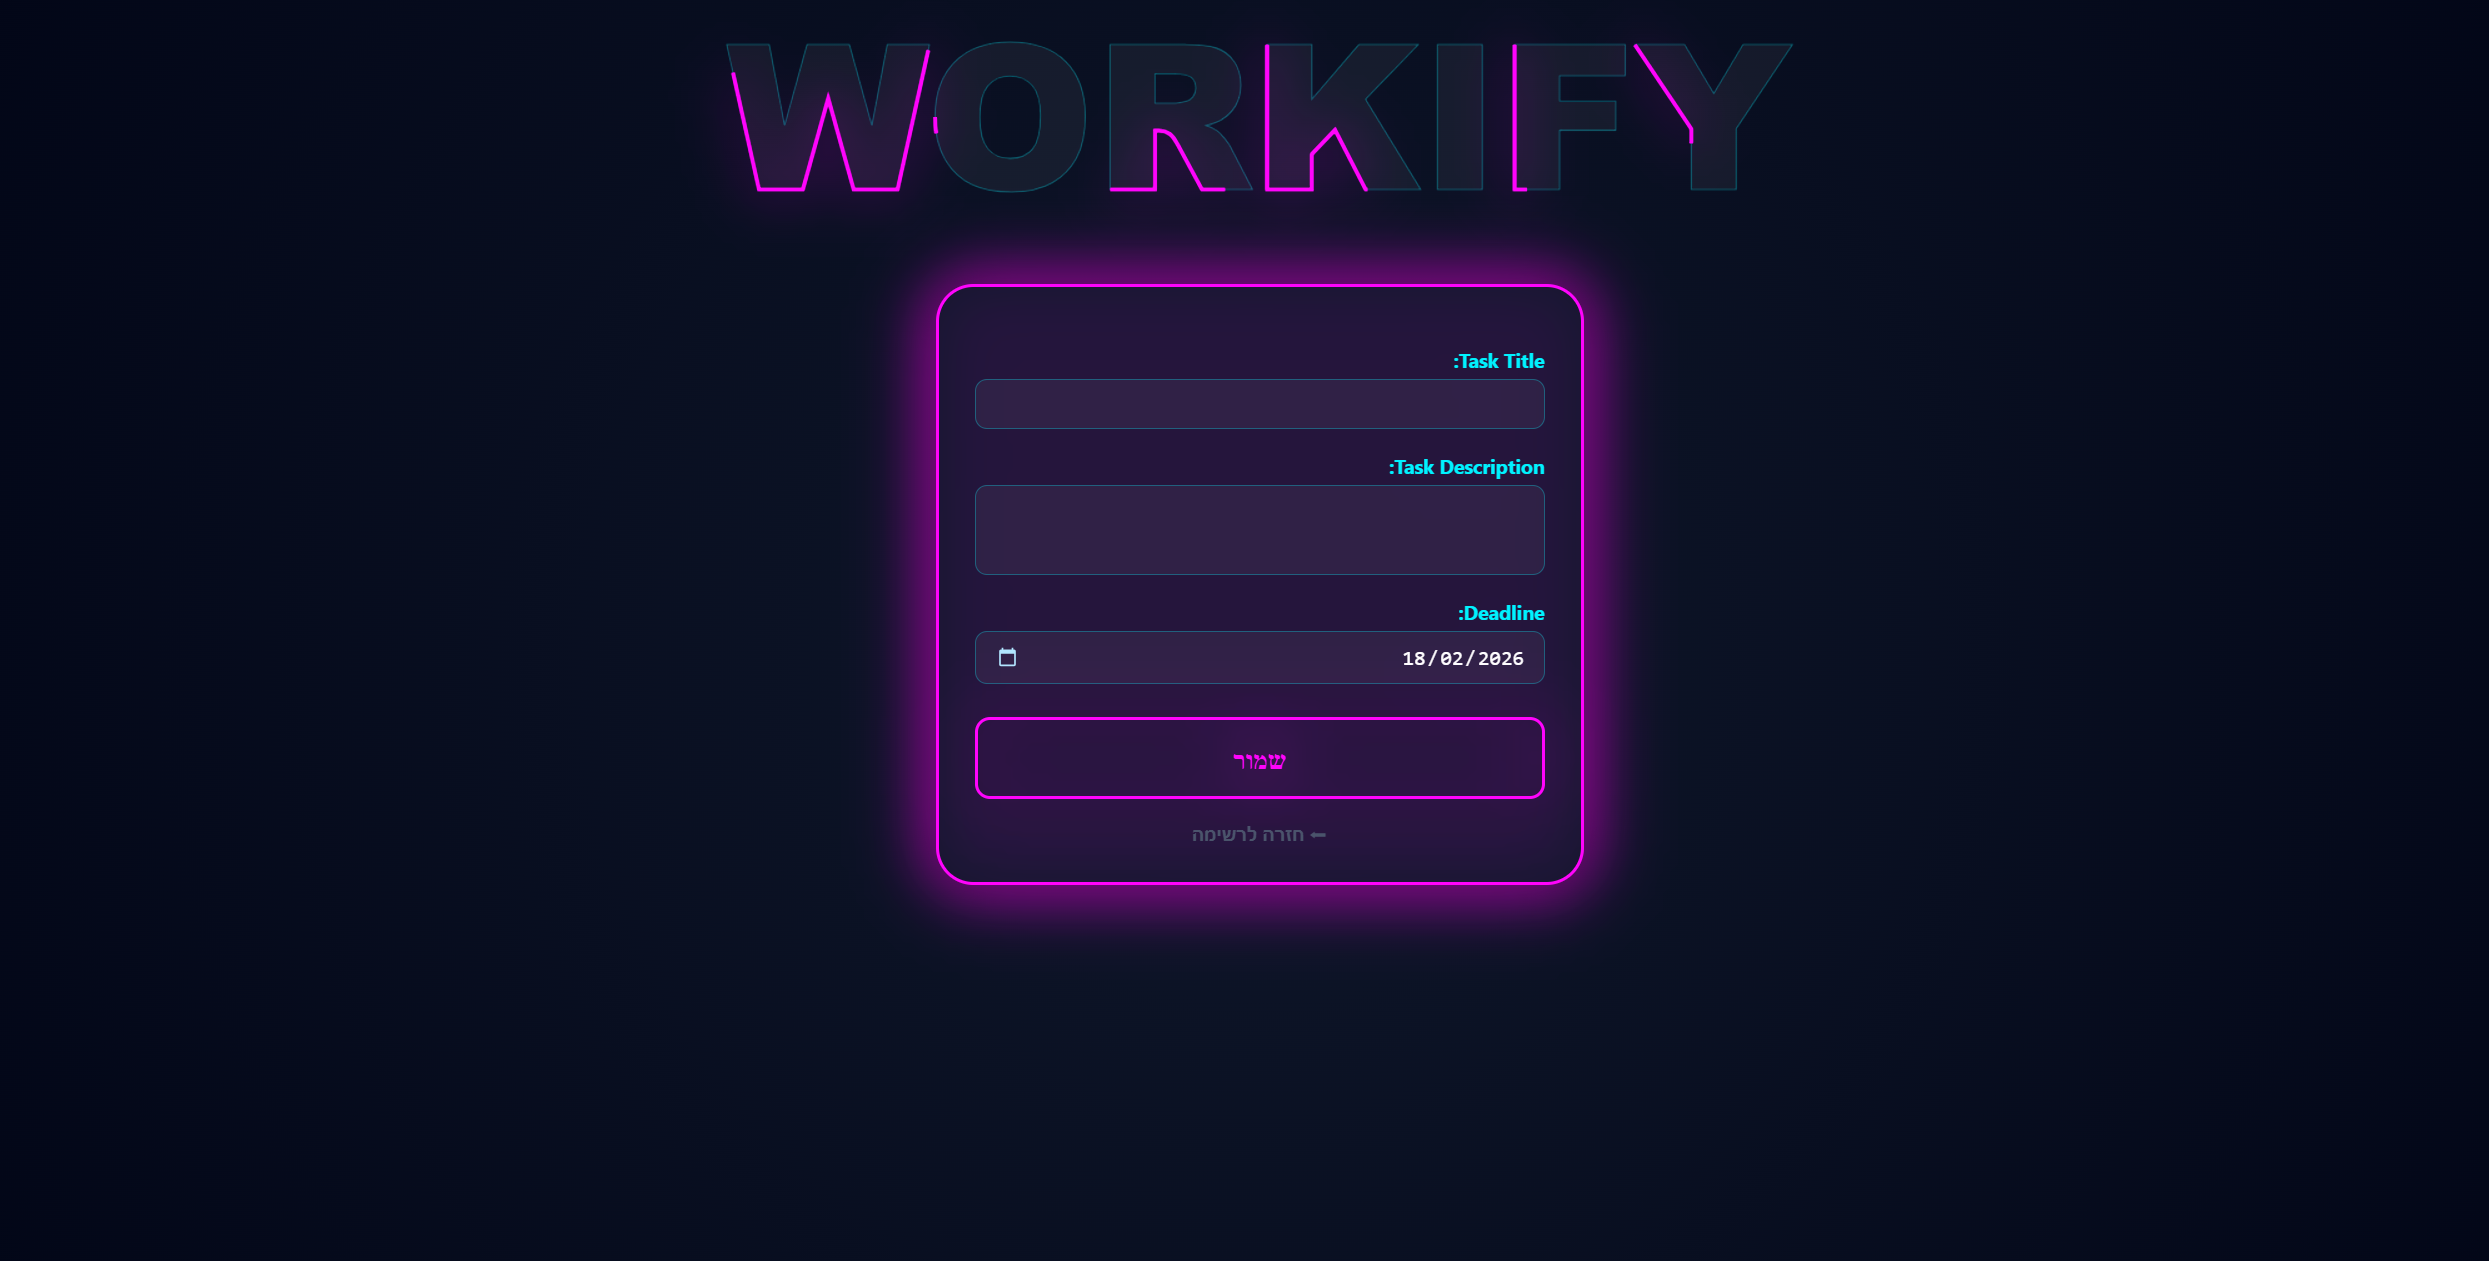
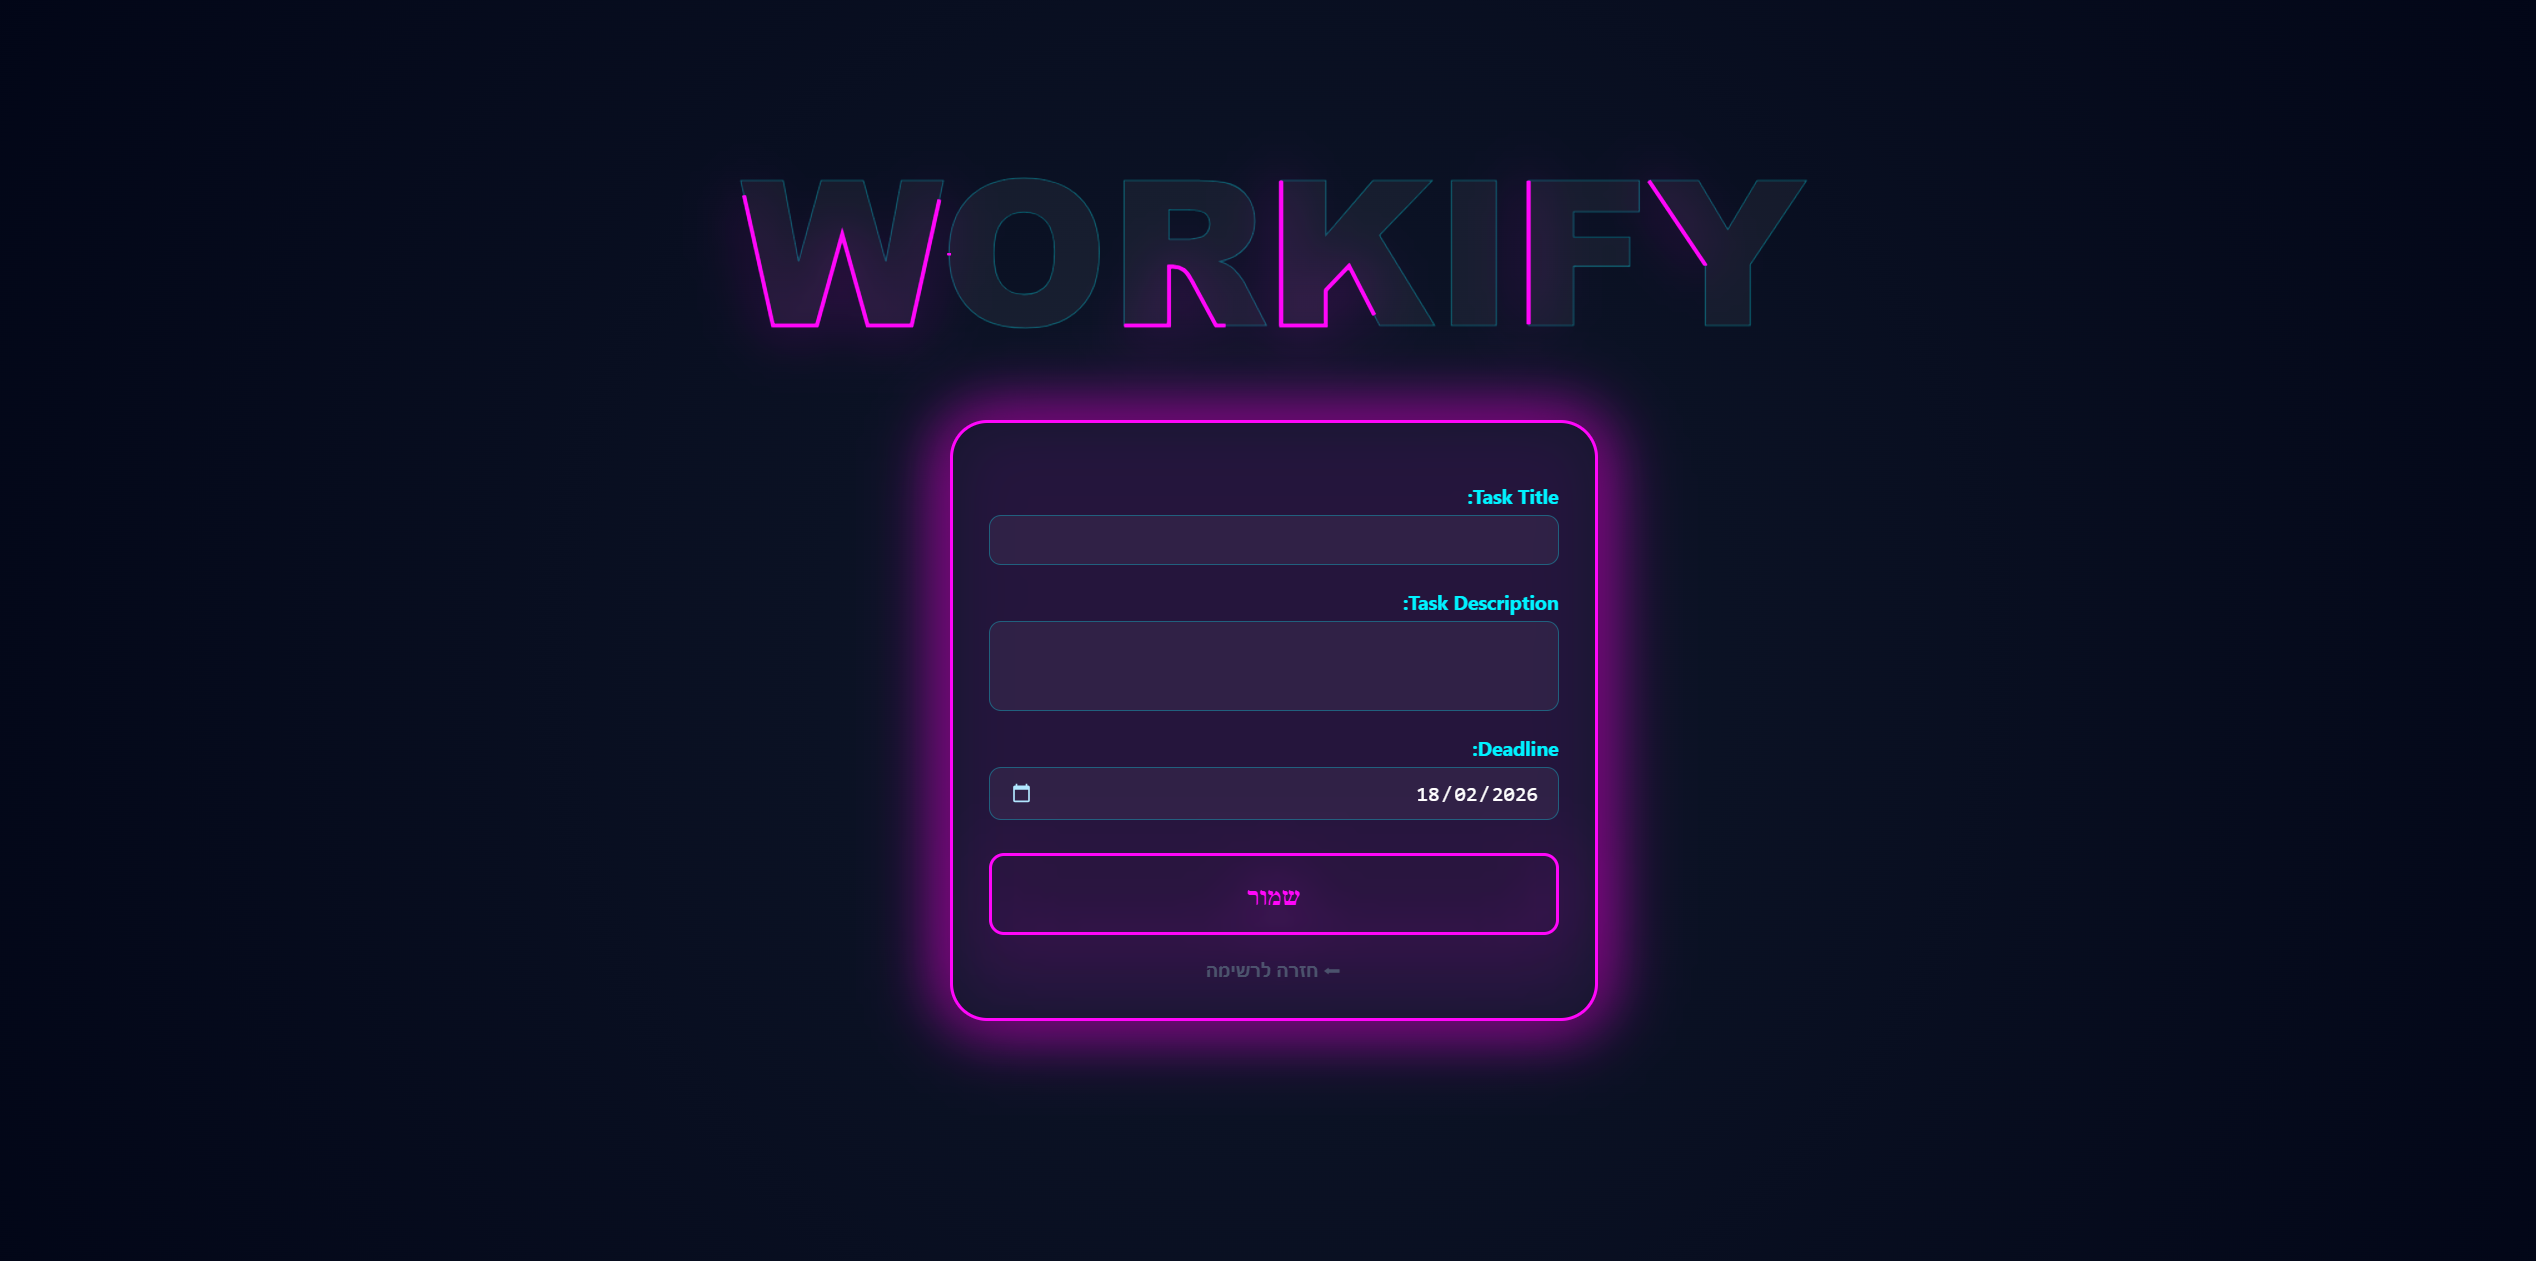
update again project with img

diff --git a/DjangoProject/DjangoApp/templates/taskForm.html b/DjangoProject/DjangoApp/templates/taskForm.html
@@ -33,8 +33,8 @@
             display: flex;
             flex-direction: column;
             align-items: center;
-            justify-content: flex-start; /* הצמדה למעלה */
-            padding-top: 2vh; /* רווח קטן מהתקרה */
+            justify-content: flex-start;
+            padding-top: 12vh;
         }
 
         /* לוגו קטן ומהיר */
